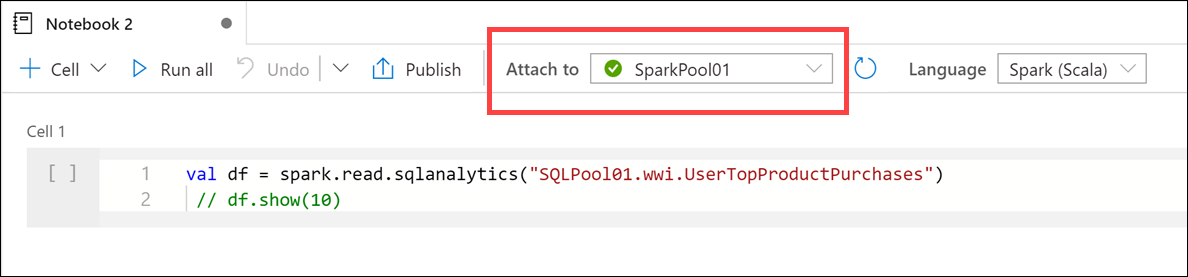
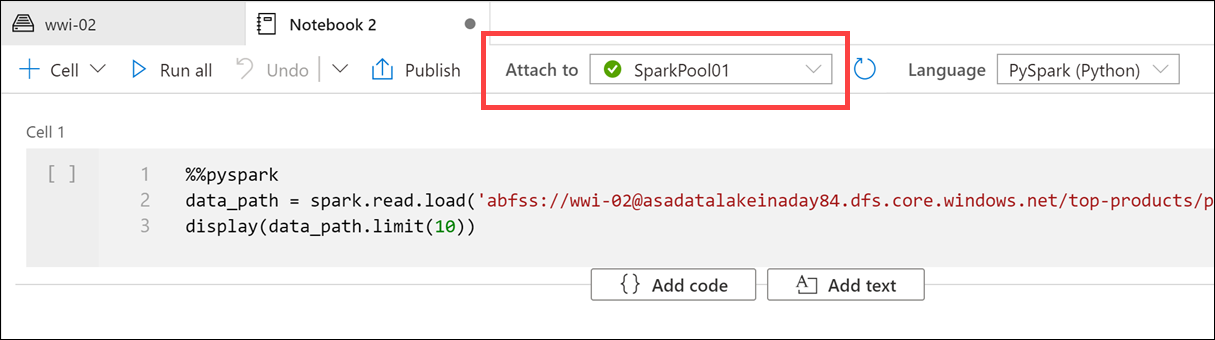
Rework data flow and notebook

diff --git a/demos/module4/README.md b/demos/module4/README.md
@@ -19,6 +19,8 @@
 
 Tailwind Traders would like code-free options for data engineering tasks. Their motivation is driven by the desire to allow junior-level data engineers who understand the data but do not have a lot of development experience build and maintain data transformation operations. The other driver for this requirement is to reduce fragility caused by complex code with reliance on libraries pinned to specific versions, remove code testing requirements, and improve ease of long-term maintenance.
 
+Their other requirement is to maintain transformed data in a data lake in addition to the SQL pool. This gives them the flexibility to retain more fields in their data sets than they otherwise store in fact and dimension tables, and doing this allows them to access the data when they have paused the SQL pool, as a cost optimization.
+
 Given these requirements, you recommend building Mapping Data Flows.
 
 Mapping Data flows are pipeline activities that provide a visual way of specifying how to transform data, through a code-free experience. This feature offers data cleansing, transformation, aggregation, conversion, joins, data copy operations, etc.
@@ -428,11 +430,56 @@ Complete the steps below to create the following two datasets: `asal400_ecommerc
 
     ![The mapping settings are configured as described.](media/data-flow-user-profiles-new-sink-settings-mapping.png "Mapping")
 
-33. Your completed data flow should look similar to the following:
+33. Select the **+** to the right of the `Filter1` step, then select the **Sink** destination from the context menu to add a second sink.
+
+    ![The new Sink destination is highlighted.](media/data-flow-user-profiles-new-sink2.png "New sink")
+
+34. Under **Sink**, configure the following:
+
+    - **Output stream name**: Enter `DataLake`.
+    - **Incoming stream**: Select `Filter1`.
+    - **Sink type**: select `Delta`.
+    - **Linked service**: Select the default workspace data lake storage account (example: `asaworkspaceinaday84-WorspaceDefaultStorage`).
+    - **Options**: Check `Allow schema drift` and uncheck `Validate schema`.
+
+    ![The sink settings are shown.](media/data-flow-user-profiles-new-sink-settings2.png "Sink settings")
+
+35. Select **Settings**, then configure the following:
+
+    - **Folder path**: Enter `wwi-02/top-products` (**copy and paste** these two values into the fields since the `top-products` folder does not yet exist).
+    - **Compression type**: Select `snappy`.
+    - **Compression level**: Select `Fastest`.
+    - **Vacuum**: Enter 0.
+    - **Truncate table**: Check.
+    - **Merge schema**: Unchecked.
+    - **Update method**: Check `Allow insert` and leave the rest unchecked.
+
+    ![The settings are shown.](media/data-flow-user-profiles-new-sink-settings-options2.png "Settings")
+
+36. Select **Mapping**, then configure the following:
+
+    - **Auto mapping**: `Uncheck` this option.
+    - **Columns**: Provide the following information:
+
+        | Input columns | Output columns |
+        | --- | --- |
+        | visitorId | visitorId |
+        | productId | ProductId |
+        | itemsPurchasedLast12Months | ItemsPurchasedLast12Months |
+        | preferredProductId | preferredProductId |
+        | userId | UserId |
+        | isTopProduct | IsTopProduct |
+        | isPreferredProduct | IsPreferredProduct |
+
+    ![The mapping settings are configured as described.](media/data-flow-user-profiles-new-sink-settings-mapping2.png "Mapping")
+
+    > Notice that we have chosen to keep more fields for the data lake sink vs. the SQL pool sink (`visitorId` and `preferredProductId`). This is because we aren't adhering to a fixed destination schema (like a SQL table), and because we want to retain the original data as much as possible in the data lake.
+
+37. Your completed data flow should look similar to the following:
 
     ![The completed data flow is displayed.](media/data-flow-user-profiles-complete.png "Completed data flow")
 
-34. Select **Publish all** to save your new data flow.
+38. Select **Publish all** to save your new data flow.
 
     ![Publish all is highlighted.](media/publish-all-1.png "Publish all")
 
@@ -523,11 +570,11 @@ You have decided to show Tailwind Traders how to manually trigger, monitor, then
 
     ![The data flow details icon is highlighted.](media/pipeline-user-profiles-activity-runs.png "Activity runs")
 
-7. The data flow details displays the data flow steps and processing details. In our example, processing time took around **45 seconds to process (1)** and output around **1 million rows (2)**. You can see which activities took the longest to complete. The cluster startup time contributed over **three minutes (3)** to the total pipeline run.
+7. The data flow details displays the data flow steps and processing details. In our example, processing time took around **44 seconds to process** the SQL pool sink **(1)**, and around **12 seconds to process** the Data Lake sink **(2)**. The Filter1 output was around **1 million rows (3)** for both. You can see which activities took the longest to complete. The cluster startup time contributed over **2.5 minutes (4)** to the total pipeline run.
 
     ![The data flow details are displayed.](media/pipeline-user-profiles-data-flow-details.png "Data flow details")
 
-8. Select the `UserTopProductPurchasesASA` sink **(1)** to view its details. We can see that **1,622,203 rows** were calculated **(2)** with a total of 30 partitions. It took around **five seconds** to stage the data **(3)** in ADLS Gen2 prior to writing the data to the SQL table. The total sink processing time in our case was around **45 seconds (4)**. It is also apparent that we have a **hot partition (5)** that is significantly larger than the others. If we need to squeeze extra performance out of this pipeline, we can re-evaluate data partitioning to more evenly spread the partitions to better facilitate parallel data loading and filtering. We could also experiment with disabling staging to see if there's a processing time difference. Finally, the size of the SQL Pool plays a factor in how long it takes to ingest data into the sink.
+8. Select the `UserTopProductPurchasesASA` sink **(1)** to view its details. We can see that **1,622,203 rows** were calculated **(2)** with a total of 30 partitions. It took around **eight seconds** to stage the data **(3)** in ADLS Gen2 prior to writing the data to the SQL table. The total sink processing time in our case was around **44 seconds (4)**. It is also apparent that we have a **hot partition (5)** that is significantly larger than the others. If we need to squeeze extra performance out of this pipeline, we can re-evaluate data partitioning to more evenly spread the partitions to better facilitate parallel data loading and filtering. We could also experiment with disabling staging to see if there's a processing time difference. Finally, the size of the SQL Pool plays a factor in how long it takes to ingest data into the sink.
 
     ![The sink details are displayed.](media/pipeline-user-profiles-data-flow-sink-details.png "Sink details")
 
@@ -535,66 +582,81 @@ You have decided to show Tailwind Traders how to manually trigger, monitor, then
 
 Now that we have processed, joined, and imported the user profile data, let's analyze it in greater detail. In this segment, we will execute code to find the top 5 products for each user, based on which ones are both preferred and top, and have the most purchases in past 12 months. Then, we will calculate the top 5 products overall.
 
+> We will access the data from the data lake that was added as a second sink in the data flow, removing the SQL pool dependency.
+
 1. Navigate to the **Data** hub.
 
     ![The Data menu item is highlighted.](media/data-hub.png "Data hub")
 
-2. Select the **Workspace** tab **(1)** and expand the `SqlPool01` database underneath the **Databases** section **(2)**. Right-click on the `wwi.UserTopProductPurchases` table **(3)**, then select the **Load to DataFrame** menu item **(5)** under the **New notebook** context menu **(4)**. If you don't see the table listed, select `Refresh` above.
+2. Select the **Linked** tab **(1)** and expand the **primary data lake storage account (2)** underneath the **Azure Data Lake Storage Gen2**. Select the **wwi-02** container **(3)** and open the **top-products** folder **(4)**. Right-click on any Parquet file **(5)**, then select the **New notebook** menu item **(6)**. If you don't see the folder, select `Refresh` above.
 
-    ![The load to DataFrame new notebook option is highlighted.](media/synapse-studio-usertopproductpurchases-new-notebook.png "New notebook")
+    ![The Parquet file and new notebook option are highlighted.](media/synapse-studio-top-products-folder.png "New notebook")
 
 3. Make sure the notebook is attached to your Spark pool.
 
     ![The attach to Spark pool menu item is highlighted.](media/notebook-top-products-attach-pool.png "Select Spark pool")
 
-4. Select **Run all** on the notebook toolbar to execute the notebook.
+4. Replace the Parquet file name with `*.parquet` **(1)** to select all Parquet files in the `top-products` folder. For example, the path should be similar to: `abfss://wwi-02@YOUR_DATALAKE_NAME.dfs.core.windows.net/top-products/*.parquet`.
+
+    ![The filename is highlighted.](media/notebook-top-products-filepath.png "Folder path")
+
+5. Select **Run all** on the notebook toolbar to execute the notebook.
+
+    ![The cell results are displayed.](media/notebook-top-products-cell1results.png "Cell 1 results")
 
     > **Note:** The first time you run a notebook in a Spark pool, Synapse creates a new session. This can take approximately 3-5 minutes.
 
     > **Note:** To run just the cell, either hover over the cell and select the _Run cell_ icon to the left of the cell, or select the cell then type **Ctrl+Enter** on your keyboard.
 
-5. Create a new cell underneath by selecting **{} Add code** when hovering over the blank space at the bottom of the notebook.
+6. Create a new cell underneath by selecting **{} Add code** when hovering over the blank space at the bottom of the notebook.
 
     ![The Add Code menu option is highlighted.](media/new-cell.png "Add code")
 
-6. Enter and execute the following in the new cell to show the first 10 rows and to create a new temporary view named `df`:
+7. Enter and execute the following in the new cell to populate a new dataframe called `topPurchases`, create a new temporary view named `top_purchases`, and show the first 100 rows:
 
     ```python
-    df.head(10)
+        topPurchases = data_path.select(
+        "UserId", "ProductId",
+        "ItemsPurchasedLast12Months", "IsTopProduct",
+        "IsPreferredProduct")
 
-    df.createTempView("df")
+    # Populate a temporary view so we can query from SQL
+    topPurchases.createOrReplaceTempView("top_purchases")
+
+    topPurchases.show(100)
     ```
 
     The output should look similar to the following:
 
     ```text
-    res4: Array[org.apache.spark.sql.Row] = Array([9065916,3020,null,false,true], [9065916,2735,null,false,true], [9065916,1149,null,false,true], [9065916,2594,null,false,true], [9065916,4591,null,false,true], [9065916,3012,null,false,true], [9065916,1985,null,false,true], [9065916,1773,null,false,true], [9065916,380,null,false,true], [9068349,4383,null,false,true])
+    +------+---------+--------------------------+------------+------------------+
+    |UserId|ProductId|ItemsPurchasedLast12Months|IsTopProduct|IsPreferredProduct|
+    +------+---------+--------------------------+------------+------------------+
+    |   148|     2717|                      null|       false|              true|
+    |   148|     4002|                      null|       false|              true|
+    |   148|     1716|                      null|       false|              true|
+    |   148|     4520|                      null|       false|              true|
+    |   148|      951|                      null|       false|              true|
+    |   148|     1817|                      null|       false|              true|
+    |   463|     2634|                      null|       false|              true|
+    |   463|     2795|                      null|       false|              true|
+    |   471|     1946|                      null|       false|              true|
+    |   471|     4431|                      null|       false|              true|
+    |   471|      566|                      null|       false|              true|
+    |   471|     2179|                      null|       false|              true|
+    |   471|     3758|                      null|       false|              true|
+    |   471|     2434|                      null|       false|              true|
+    |   471|     1793|                      null|       false|              true|
+    |   471|     1620|                      null|       false|              true|
+    |   471|     1572|                      null|       false|              true|
+    |   833|      957|                      null|       false|              true|
+    |   833|     3140|                      null|       false|              true|
+    |   833|     1087|                      null|       false|              true|
     ```
-
-7. Notice that the language for this notebook is Spark Scala. We want to use Python to explore the data. To do this, we load the data into a temporary view, then we can load the view's contents into a DataFrame in a new PySpark cell. To do this, execute the following in a new cell:
-
-    ```python
-    %%pyspark
-    # Calling the DataFrame df created in Scala to Python
-    df = sqlContext.table("df")
-    # *********************
-
-    topPurchases = df.select(
-        "UserId", "ProductId",
-        "ItemsPurchasedLast12Months", "IsTopProduct",
-        "IsPreferredProduct")
-
-    topPurchases.show(100)
-    ```
-
-    We set the language of the cell to PySpark with the `%%pyspark` magic. Then we loaded the `df` view into a new DataFrame. Finally, we created a new DataFrame named `topPurchases` and displayed its contents.
-
-    ![The cell code and output are displayed.](media/notebook-top-products-load-python-df.png "Load Python DataFrame")
 
 8. Execute the following in a new cell to create a new DataFrame to hold only top preferred products where both `IsTopProduct` and `IsPreferredProduct` are true:
 
     ```python
-    %%pyspark
     from pyspark.sql.functions import *
 
     topPreferredProducts = (topPurchases
@@ -617,19 +679,17 @@ Now that we have processed, joined, and imported the user profile data, let's an
         select UserId, ProductId, ItemsPurchasedLast12Months
         from (select *,
                     row_number() over (partition by UserId order by ItemsPurchasedLast12Months desc) as seqnum
-            from df
+            from top_purchases
             ) a
         where seqnum <= 5 and IsTopProduct == true and IsPreferredProduct = true
         order by a.UserId
     ```
 
-    *Note that there is no output for the above query.* The query uses the `df` temporary view as a source and applies a `row_number() over` method to apply a row number for the records for each user where `ItemsPurchasedLast12Months` is greatest. The `where` clause filters the results so we only retrieve up to five products where both `IsTopProduct` and `IsPreferredProduct` are set to true. This gives us the top five most purchased products for each user where those products are _also_ identified as their favorite products, according to their user profile stored in Azure Cosmos DB.
+    *Note that there is no output for the above query.* The query uses the `top_purchases` temporary view as a source and applies a `row_number() over` method to apply a row number for the records for each user where `ItemsPurchasedLast12Months` is greatest. The `where` clause filters the results so we only retrieve up to five products where both `IsTopProduct` and `IsPreferredProduct` are set to true. This gives us the top five most purchased products for each user where those products are _also_ identified as their favorite products, according to their user profile stored in Azure Cosmos DB.
 
 10. Execute the following in a new cell to create and display a new DataFrame that stores the results of the `top_5_products` temporary view you created in the previous cell:
 
     ```python
-    %%pyspark
-
     top5Products = sqlContext.table("top_5_products")
 
     top5Products.show(100)
@@ -642,17 +702,14 @@ Now that we have processed, joined, and imported the user profile data, let's an
 11. Execute the following in a new cell to compare the number of top preferred products to the top five preferred products per customer:
 
     ```python
-    %%pyspark
     print('before filter: ', topPreferredProducts.count(), ', after filter: ', top5Products.count())
     ```
 
     The output should be similar to `before filter:  997873 , after filter:  85020`.
 
-12. Finally, let's calculate the top five products overall, based on those that are both preferred by customers and purchased the most. To do this, execute the following in a new cell:
+12. Calculate the top five products overall, based on those that are both preferred by customers and purchased the most. To do this, execute the following in a new cell:
 
     ```python
-    %%pyspark
-
     top5ProductsOverall = (top5Products.select("ProductId","ItemsPurchasedLast12Months")
         .groupBy("ProductId")
         .agg( sum("ItemsPurchasedLast12Months").alias("Total") )
@@ -679,8 +736,6 @@ Now that we have processed, joined, and imported the user profile data, let's an
 13. We are going to execute this notebook from a pipeline. We want to pass in a parameter that sets a `runId` variable value that will be used to name the Parquet file. Execute the following in a new cell:
 
     ```python
-    %%pyspark
-
     import uuid
 
     # Generate random GUID
@@ -689,7 +744,7 @@ Now that we have processed, joined, and imported the user profile data, let's an
 
     We are using the `uuid` library that comes with Spark to generate a random GUID. We want to override the `runId` variable with a parameter passed in by the pipeline. To do this, we need to toggle this as a parameter cell.
 
-14. Select the actions ellipses (...) on the top-right corner of the cell **(1)**, then select **Toggle parameter cell (2)**.
+14. Select the actions ellipses **(...)** on the top-right corner of the cell **(1)**, then select **Toggle parameter cell (2)**.
 
     ![The menu item is highlighted.](media/toggle-parameter-cell.png "Toggle parameter cell")
 
@@ -697,17 +752,17 @@ Now that we have processed, joined, and imported the user profile data, let's an
 
     ![The cell is configured to accept parameters.](media/parameters-tag.png "Parameters")
 
-15. Paste the following code in a new cell to use the `runId` variable as the Parquet filename in the `/campaign-analytics/top5-products/` path in the primary data lake account. **Replace `YOUR_DATALAKE_NAME`** in the path with the name of your primary data lake account. To find this, navigate to the **Data** hub and select the **Linked** tab **(1)**. The data lake account name is shown on the ADLS Gen2 Primary linked service account **(2)**. Enter this value as a replacement for **`YOUR_DATALAKE_NAME`** in the path **(3)**, then execute the cell.
+15. Paste the following code in a new cell to use the `runId` variable as the Parquet filename in the `/top5-products/` path in the primary data lake account. **Replace `YOUR_DATALAKE_NAME`** in the path with the name of your primary data lake account. To find this, scroll up to **Cell 1** at the top of the page **(1)**. Copy the data lake storage account from the path **(2)**. Paste this value as a replacement for **`YOUR_DATALAKE_NAME`** in the path **(3)** inside the new cell, then execute the cell.
 
     ```python
     %%pyspark
 
-    top5ProductsOverall.write.parquet('abfss://wwi-02@YOUR_DATALAKE_NAME.dfs.core.windows.net/campaign-analytics/top5-products/' + str(runId) + '.parquet')
+    top5ProductsOverall.write.parquet('abfss://wwi-02@YOUR_DATALAKE_NAME.dfs.core.windows.net/top5-products/' + str(runId) + '.parquet')
     ```
 
     ![The path is updated with the name of the primary data lake account.](media/datalake-path-in-cell.png "Data lake name")
 
-16. Verify that the file was written to the data lake. Navigate to the **Data** hub and select the **Linked** tab **(1)**. Expand the primary data lake storage account and select the **wwi-02** container **(2)**. Navigate to the **campaign-analytics/top5-products** folder **(3)**. You should see a Parquet file in the directory with a GUID as the file name **(4)**.
+16. Verify that the file was written to the data lake. Navigate to the **Data** hub and select the **Linked** tab **(1)**. Expand the primary data lake storage account and select the **wwi-02** container **(2)**. Navigate to the **top5-products** folder **(3)**. You should see a folder for the Parquet file in the directory with a GUID as the file name **(4)**.
 
     ![The parquet file is highlighted.](media/top5-products-parquet.png "Top 5 products parquet")
 
@@ -756,3 +811,27 @@ Tailwind Traders wants to execute this notebook after the Mapping Data Flow runs
 9. Select **OK** to run the trigger.
 
     ![The OK button is highlighted.](media/pipeline-run-trigger.png "Pipeline run")
+
+10. Navigate to the **Monitor** hub.
+
+    ![The Monitor hub menu item is selected.](media/monitor-hub.png "Monitor hub")
+
+11. Select **Pipeline runs (1)** and wait for the pipeline run to successfully complete **(2)**. You may need to refresh **(3)** the view.
+
+    ![The pipeline run succeeded.](media/pipeline-user-profiles-run-complete.png "Pipeline runs")
+
+12. Select the name of the pipeline to view the pipeline's activity runs.
+
+    ![The pipeline name is selected.](media/select-pipeline.png "Pipeline runs")
+
+13. This time, we see both the **Data flow** activity, and the new **Notebook** activity **(1)**. Make note of the **Pipeline run ID** value **(2)**. We will compare this to the Parquet file name generated by the notebook. Select the **Calculate Top 5 Products** Notebook name to view its details **(3)**.
+
+    ![The pipeline run details are displayed.](media/pipeline-run-details2.png "Write User Profile Data to ASA details")
+
+14. Here we see the Notebook run details. You can select the **Playback** button **(1)** to watch a playback of the progress through the **jobs (2)**. At the bottom, you can view the **log output** with different filter options **(3)**. To the right, we can view the run details, such as the duration, Livy ID, Spark pool details, etc. Select a **job** to view its details **(5)**.
+
+    ![The run details are displayed.](media/notebook-run-details.png "Notebook run details")
+
+15. The Spark UI opens in a new tab where we can see the stage details. Expand the **DAG Visualization** to view the stage details.
+
+    ![The Spark stage details are displayed.](media/spark-stage-details.png "Stage details")
